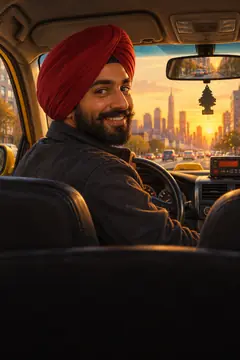
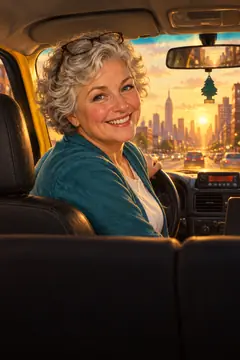
Replace the taxi driver character to avoid a stereotype
New taxi driver art and names (Linda / Pilar / Martine) in all languages.

Claude-Session: https://claude.ai/code/session_01X3ByDTCdVshPAyEUMiQfUf

diff --git a/js/scenes.js b/js/scenes.js
@@ -164,7 +164,7 @@ export const SCENES = [
     unlock: 90,
     level: "Beginner",
     goal: "Tell the driver where to go and chat on the way.",
-    npc: { name: "Raj", avatar: "👳🏾♂", role: "Taxi driver", pitch: 0.85, rate: 1.05 },
+    npc: { name: "Linda", avatar: "👩🏼🦳", role: "Taxi driver", pitch: 1.05, rate: 1.05 },
     vocab: ["Could you take me to…?", "How long will it take?", "You can drop me here.", "Keep the change."],
     start: "hello",
     nodes: {

diff --git a/js/lang/fr.js b/js/lang/fr.js
@@ -59,7 +59,7 @@ export default {
     },
   },
   taxi: {
-    name: "Taxi Jaune", npc: "Karim",
+    name: "Taxi Jaune", npc: "Martine",
     vocab: ["Vous pouvez m'emmener à… ? (Can you take me to…?)", "Ça va prendre combien de temps ? (How long will it take?)", "Vous pouvez me déposer ici. (You can drop me here.)", "Gardez la monnaie. (Keep the change.)"],
     nodes: {
       hello: { npc: "Bonjour ! Je vous emmène où ?", en: "Hello! Where can I take you?",

diff --git a/js/lang/es.js b/js/lang/es.js
@@ -59,7 +59,7 @@ export default {
     },
   },
   taxi: {
-    name: "Taxi Amarillo", npc: "Javier",
+    name: "Taxi Amarillo", npc: "Pilar",
     vocab: ["¿Me lleva a…? (Can you take me to…?)", "¿Cuánto tiempo se tarda? (How long does it take?)", "Puede dejarme aquí. (You can drop me here.)", "Quédese con el cambio. (Keep the change.)"],
     nodes: {
       hello: { npc: "¡Hola! ¿Adónde vamos?", en: "Hello! Where are we going?",

diff --git a/sw.js b/sw.js
@@ -1,5 +1,5 @@
 // Offline support: cache the app shell, serve it cache-first, refresh in the background.
-const CACHE = "talktown-v3";
+const CACHE = "talktown-v4";
 const ASSETS = [
   "./",
   "./index.html",
